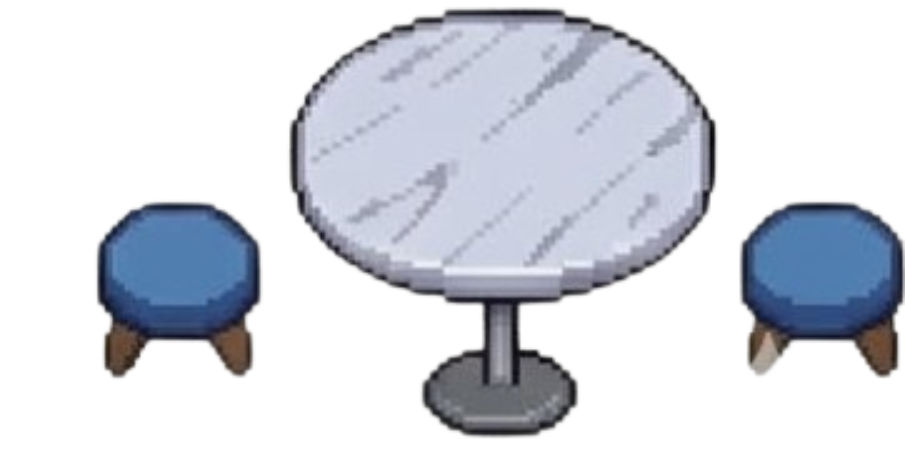
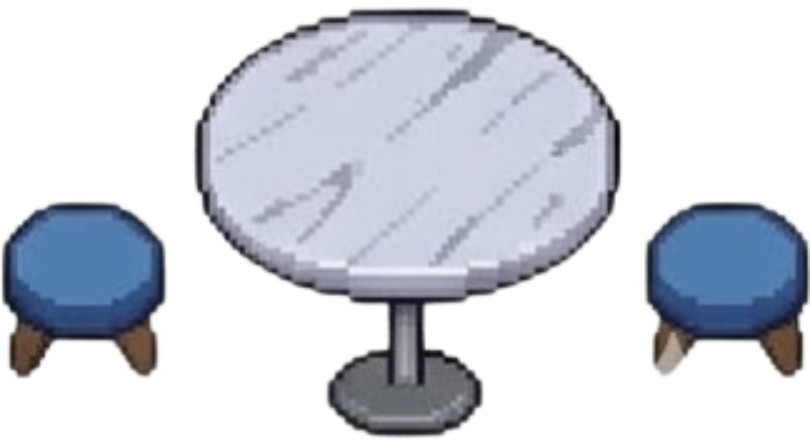
feat(loja): adiciona objetos e colisões na lanchonete e autoescola (#133)

diff --git a/src/utilitarios/configuracao-interior.js b/src/utilitarios/configuracao-interior.js
@@ -1,17 +1,20 @@
 
 export const ObjetosInterior = {
     'Cafe': [
-        { imagem: 'lancheoneteBancada', x: 400, y: 300, escala: 0.5 },
-        { imagem: 'lancheonteMesa', x: 800, y: 500, escala: 0.5 },
-        { imagem: 'lancheonetePosters', x: 1200, y: 300, escala: 0.5 },
-        { imagem: 'lancheonetePrateleiras', x: 1600, y: 500, escala: 0.5 }
+        { imagem: 'lanchoneteBancada', x: 750, y: 360, escala: 0.8 },
+        { imagem: 'lanchoneteMesa', x: 350, y: 800, escala: 0.45 },
+        { imagem: 'lanchonetePosters', x: 1200, y: 200, escala: 0.3 },
+        { imagem: 'lanchonetePrateleiras', x: 1420, y: 750, escala: 0.55 }
     ],
     'Games': [
         { imagem: 'fliperama-azul', x: 200, y: 150, escala: 1.2 },
         { imagem: 'fliperama-vermelho', x: 280, y: 150, escala: 1.2 }
     ],
     'Autoescola': [
-        // Adicione os objetos da autoescola aqui usando o "clique mágico" para o X e Y
+        { imagem: 'autoEscolaBancada', x: 805, y: 360, escala: 0.6 },
+        { imagem: 'autoEscolaBanquinho', x: 1355, y: 550, escala: 0.35 },
+        { imagem: 'autoEscolaMesa', x: 1350, y: 700, escala: 0.4 },
+        { imagem: 'autoEscolaPlaca', x: 795, y: 65, escala: 0.5 }
     ],
     
     'Movel': [

diff --git a/src/cenas/cena-cidade.js b/src/cenas/cena-cidade.js
@@ -34,8 +34,8 @@ export class GameScene extends Phaser.Scene {
                 lojaFisicaOriginX: 0.7,
                 lojaFisicaOriginY: 0.62,
 
-                npcX: 600,
-                npcY: 320,
+                npcX: 770,
+                npcY: 350,
 
                 portaX: 240,
                 portaY: 325,
@@ -204,8 +204,8 @@ export class GameScene extends Phaser.Scene {
                 lojaFisicaOriginX: 0.69,
                 lojaFisicaOriginY: 0.61,
 
-                npcX: 600,
-                npcY: 300,
+                npcX: 800,
+                npcY: 315,
 
                 portaX: 260,
                 portaY: 295,
@@ -304,7 +304,7 @@ export class GameScene extends Phaser.Scene {
         });
 
         console.log('Lembrar de retirar');
-        this.scene.start('cafeScene');
+        this.scene.start('autoEscolaScene');
 
     }
 

diff --git a/src/cenas/cena-loja.js b/src/cenas/cena-loja.js
@@ -289,6 +289,11 @@ export default class LojaScene extends Phaser.Scene {
             `npc_${this.sceneLoja}`,
         );
 
+        // 1. Coloca a NPC na camada 101 (na frente do balcão que está na 100)
+        this.npc.setDepth(101); 
+        
+    
+
         this.quiz.aplicarVisualConquistado(this.npc);
 
         // Collider da bancada interna desativado temporariamente.
